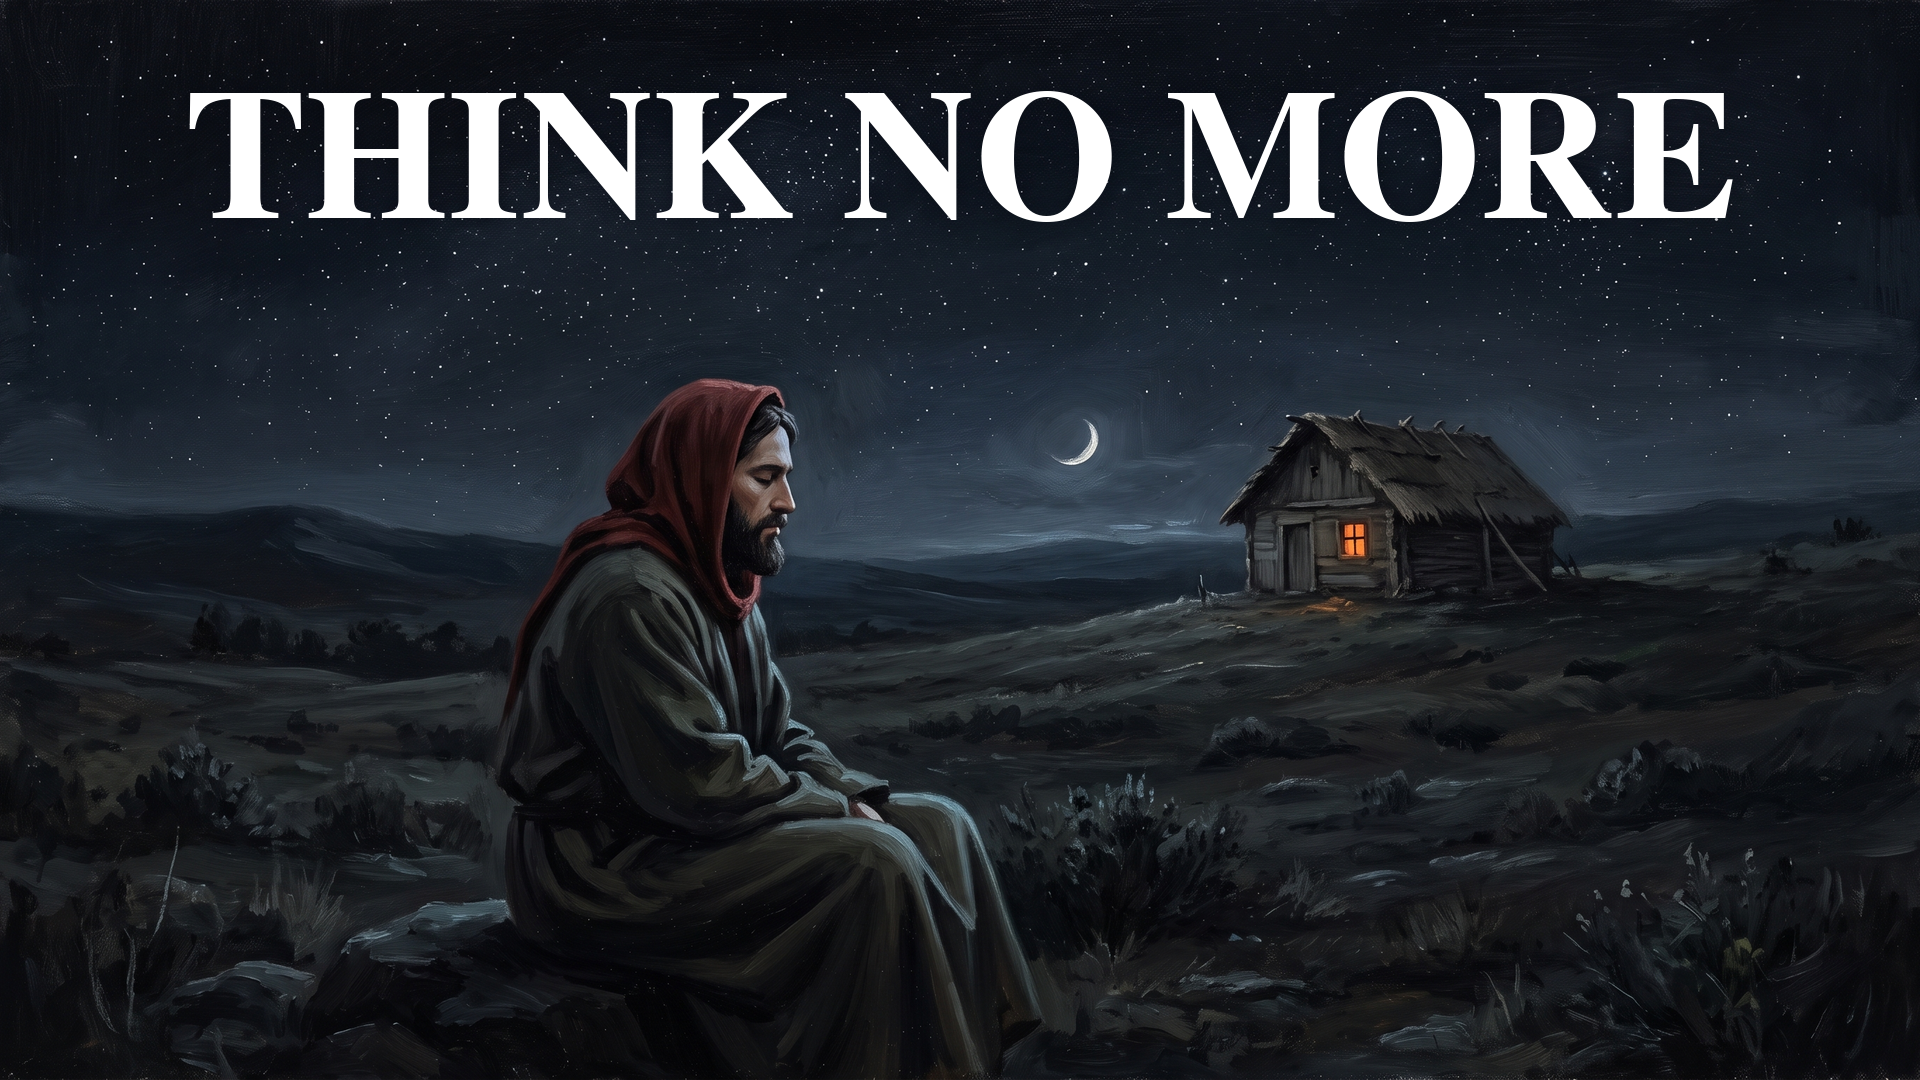
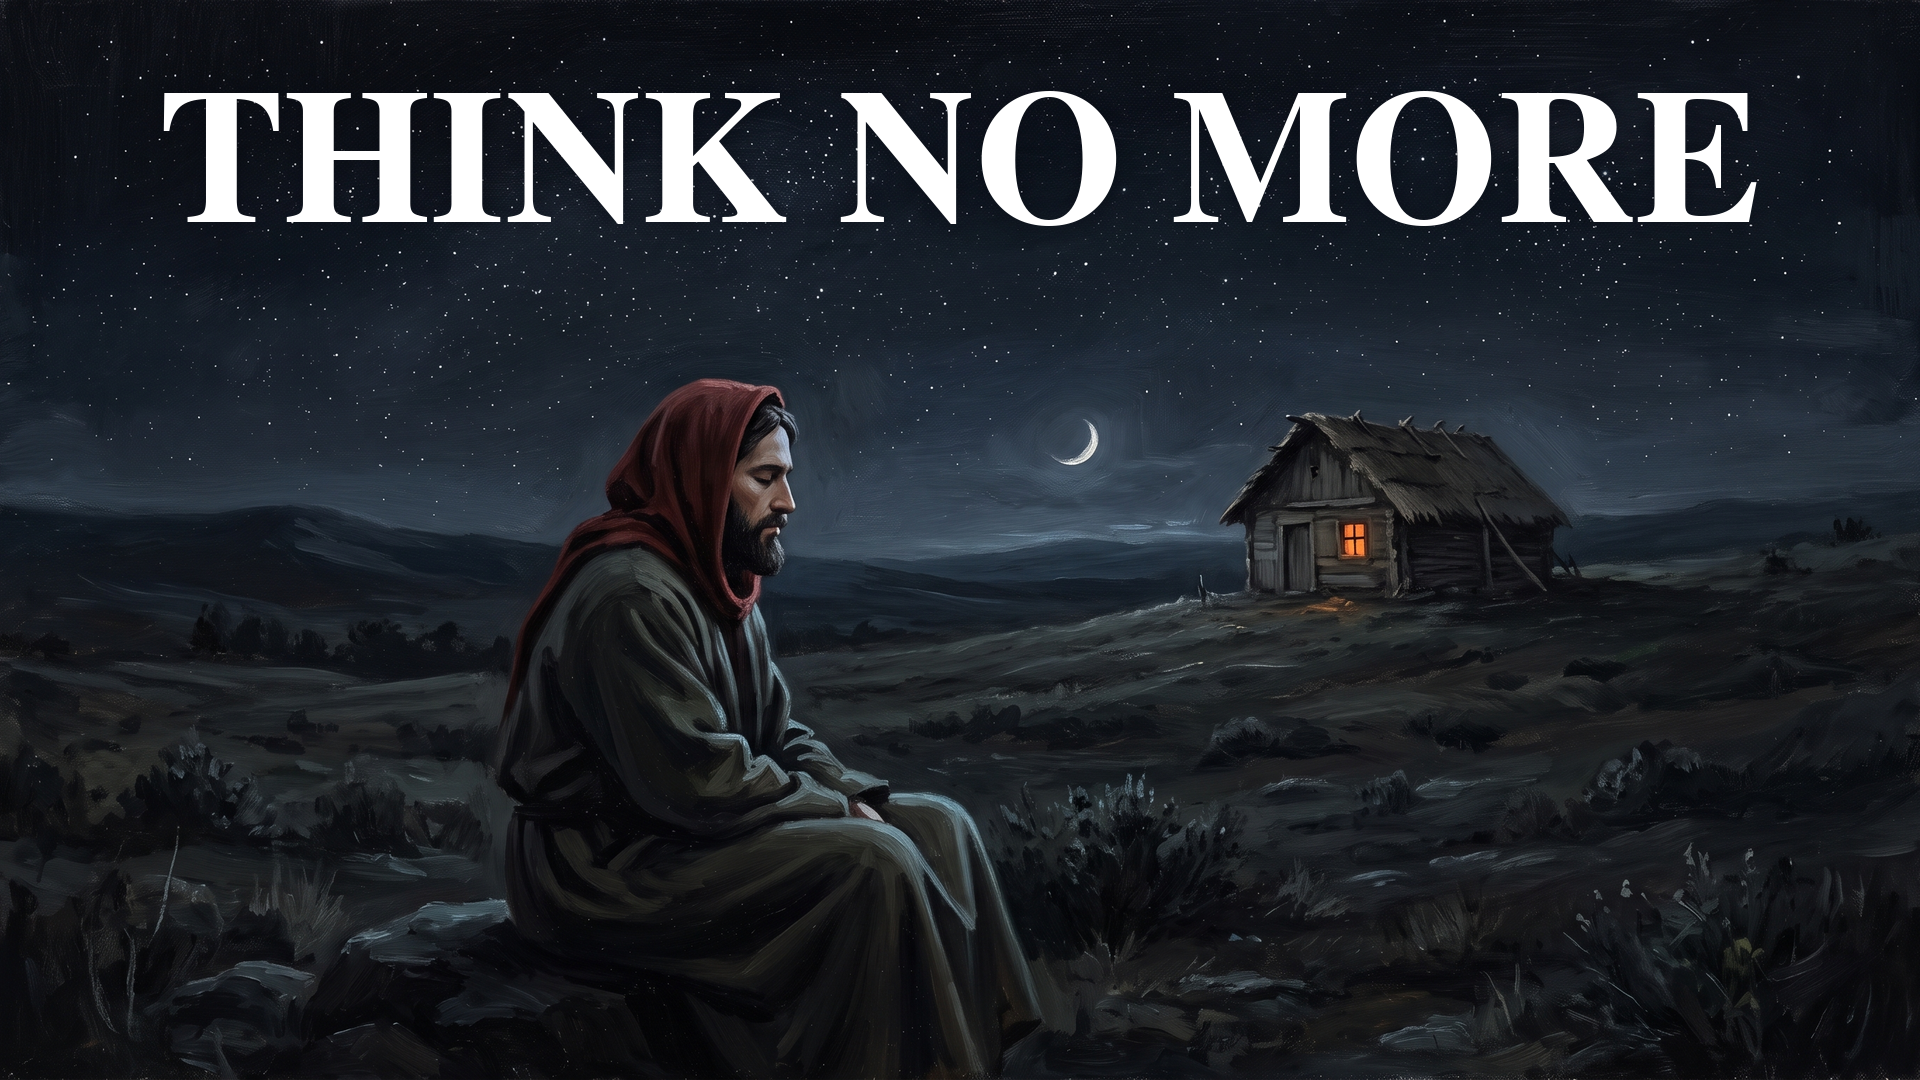
Thumbnail auf 129 px Versalhoehe, plan.json auf die echten Kapitelsummen
Thumbnail V4: 125 px waren ceil(1080 x 11,5 %) und damit exakt das Minimum —
gemessen 11,57 % gegen eine Grenze von 11,50 %, also 0,07 Punkte oder knapp
0,8 px. Jede Verschiebung am Motiv oder ein anderer Font haette Gate 1.5 ohne
Vorwarnung gekippt.

thumbnail.py trennt jetzt Zielgroesse und Grenze: das neue CAP_ZIEL_PCT
(11,9 %, der Median der B-Serie ueber n=13) bestimmt die Schriftgroesse,
CAP_MIN_PCT (11,5 %) bleibt der Wert, an dem geprueft wird. Gilt ab sofort
auch fuer V05-V08.

  vorher   125 px = 11,57 %   Breite 1548 px, Rand 186 px
  nachher  129 px = 11,94 %   Breite 1599 px, Rand 160 px

Kontrast unveraendert 18,5:1 im Mittel und 17,7:1 im p95. Neu gesetzt aus
motiv-video-04.png; nachgewiesen, dass der Hintergrund dieselbe Vorlage ist
(90,2 % pixelgleich, Abweichung nur im Textband) und kein zweiter Textsatz
entstanden ist. Die Kuerzung auf THINK NO MORE bleibt richtig: NO MORE
THINKING braeuchte bei 129 px rund 1956 px statt der verfuegbaren 1840.

plan.json: zeichen_tts stand fuer alle acht Videos auf woerter x 5,210, einer
Faustformel, und wies damit 0,05 bis 1,9 Prozent zu wenig aus. Jetzt steht
dort die Summe der Kapitelzeichen aus kapitel.json.

  V1 154.581 -> 156.762    V5 155.675 -> 155.755
  V2 157.655 -> 160.463    V6 159.911 -> 161.522
  V3 156.347 -> 157.142    V7 151.731 -> 153.932
  V4 162.094 -> 165.130    V8 155.440 -> 155.778

Dazu ein _hinweis-Schluessel, der festhaelt, dass dieser Wert nur die
[…]

diff --git a/produktion/pipeline/thumbnail.py b/produktion/pipeline/thumbnail.py
@@ -5,7 +5,8 @@ thumbnail.py - legt die Textzeile auf ein Serienmotiv und misst nach.
 Harte Werte aus formel/thumbnail-checkliste.md:
   - hoechstens 4 Woerter
   - Versalien, fett
-  - Versalhoehe >= 11,5 % der Bildhoehe (>= 125 px bei 1080p)
+  - Versalhoehe >= 11,5 % der Bildhoehe (>= 125 px bei 1080p);
+    gesetzt wird auf 11,9 % (129 px), damit Reserve bleibt
   - Kontrast Text zu direktem Hintergrund >= 10:1
   - Text im oberen Drittel, weiss, zentriert
   - Export als JPEG/PNG, >= 150 KB (Gewinner-Median 237 KB)
@@ -33,6 +34,12 @@ SCHRIFTEN = [
     "/usr/share/fonts/truetype/dejavu/DejaVuSerif-Bold.ttf",
 ]
 CAP_MIN_PCT = 11.5
+# Gesetzt wird NICHT auf das Minimum, sondern darueber. Bei 11,5 % ergibt
+# ceil(1080 * 0,115) = 125 px und damit 11,57 % — 0,07 Punkte oder knapp
+# 0,8 px Reserve. Jede Verschiebung am Motiv oder ein anderer Font kippt
+# die Pruefung dann ohne Vorwarnung. 11,9 % ist der Median der B-Serie und
+# ergibt 129 px. CAP_MIN_PCT bleibt die Grenze, an der geprueft wird.
+CAP_ZIEL_PCT = 11.9
 KONTRAST_MIN = 10.0
 MAX_WOERTER = 4
 
@@ -74,7 +81,7 @@ def bauen(bild, text, aus, oben_pct=8.5, rand_min=40):
         raise SystemExit(f"{woerter} Woerter — die Checkliste erlaubt hoechstens "
                          f"{MAX_WOERTER}.")
 
-    cap_ziel = int(np.ceil(H * CAP_MIN_PCT / 100))
+    cap_ziel = int(np.ceil(H * CAP_ZIEL_PCT / 100))
     d = ImageDraw.Draw(im)
     gewaehlt = None
     for p in SCHRIFTEN:

diff --git a/produktion/video-04/gate1-pruefung.md b/produktion/video-04/gate1-pruefung.md
@@ -15,7 +15,7 @@ den Werten des fertigen Laufs.
 | 1.2 | Titelähnlichkeit | < 50 % | **37,5 %** | ✓ |
 | 1.3 | Titelanker | einer der 13 belegten | `No More Thinking Tonight…` (166K) | ✓ |
 | 1.4 | Thumbnail: Wörter | ≤ 4 | 3 — `THINK NO MORE` | ✓ |
-| 1.5 | Thumbnail: Versalhöhe | ≥ 11,5 % | **11,57 %** (125 px) | ✓ |
+| 1.5 | Thumbnail: Versalhöhe | ≥ 11,5 % | **11,94 %** (129 px) | ✓ |
 | 1.6 | Thumbnail: Kontrast | ≥ 10 : 1 | 17,5–18,5 | ✓ |
 | 1.7 | Thumbnail: Serienmotiv | gleich wie letzte Uploads | Sichtprüfung offen | **von Hand** |
 | 1.8 | 160×90-Kontrolle | in einer Sekunde erfassbar | Sichtprüfung offen | **von Hand** |
@@ -27,9 +27,13 @@ den Werten des fertigen Laufs.
 **10 von 12 maschinell bestanden, 0 Verstöße.** 1.7 und 1.8 sind
 Sichtprüfungen und bleiben offen — sie gehören ans Handy, nicht in ein Skript.
 
-**1.5 hat keine Reserve.** 11,57 % gegen 11,50 % sind 0,07 Punkte, das sind
-knapp 0,8 px. Wer am Thumbnail noch etwas verschiebt, muss `thumbnail.py`
-erneut laufen lassen.
+**1.5 nachgebessert (2026-08-20).** Der erste Lauf lag mit 11,57 % gegen
+11,50 % nur 0,07 Punkte über der Grenze — knapp 0,8 px, weil `thumbnail.py`
+auf `ceil(1080 × 11,5 %)` = 125 px zielte, also exakt auf das Minimum. Das
+Skript trennt jetzt Zielgröße und Grenze: `CAP_ZIEL_PCT` = 11,9 % (Median der
+B-Serie) ergibt 129 px, `CAP_MIN_PCT` = 11,5 % bleibt die Prüfgrenze.
+Neu gemessen: **129 px = 11,94 %**, Breite 1599 px, Rand 160 px je Seite,
+Kontrast unverändert. Thumbnail neu gesetzt aus `motiv-video-04.png`.
 
 ## Aussprache-QA: zwei Beanstandungen, beide widerlegt
 

diff --git a/bibeltube-wissen.md b/bibeltube-wissen.md
@@ -1371,6 +1371,22 @@ schmale Sichel.
 >
 > Der **Titel bleibt unverändert**; gekürzt ist allein die Zeile im Bild.
 
+> **2026-08-20 — Versalhöhe von 125 px auf 129 px angehoben.**
+> 125 px waren `ceil(1080 × 11,5 %)`, also exakt das Minimum: gemessen
+> 11,57 % gegen eine Grenze von 11,50 %, das sind 0,07 Punkte oder knapp
+> 0,8 px. Jede Verschiebung am Motiv oder ein anderer Font hätte 1.5 ohne
+> Vorwarnung gekippt. `thumbnail.py` setzt jetzt auf **`CAP_ZIEL_PCT` =
+> 11,9 %** — der Median der B-Serie (9,9–12,1 %, n=13) — und trennt damit
+> die Zielgröße von der Grenze; `CAP_MIN_PCT` = 11,5 % bleibt der Wert, an
+> dem geprüft wird.
+>
+> Gemessen: **129 px = 11,94 %**, Breite 1599 px, Rand 160 px je Seite,
+> Kontrast unverändert 18,5:1 (Mittel) und 17,7:1 (p95). Die Kürzung von
+> oben bleibt richtig: `NO MORE THINKING` bräuchte bei 129 px rund 1956 px
+> und wäre noch deutlicher zu breit als bei 125 px.
+>
+> Gilt ab sofort auch für die Thumbnails von V05–V08.
+
 > **2026-08-06:** ersetzt „weiter Bildausschnitt, Hügelsilhouette hinter dem
 > Feuer". Hütte und erleuchtetes Fenster stehen beide in Formel §5 im belegten
 > Motivset, das Fenster ausdrücklich als zulässige warme Lichtquelle neben

diff --git a/produktion/videos-01-08.md b/produktion/videos-01-08.md
@@ -511,6 +511,22 @@ schmale Sichel.
 >
 > Der **Titel bleibt unverändert**; gekürzt ist allein die Zeile im Bild.
 
+> **2026-08-20 — Versalhöhe von 125 px auf 129 px angehoben.**
+> 125 px waren `ceil(1080 × 11,5 %)`, also exakt das Minimum: gemessen
+> 11,57 % gegen eine Grenze von 11,50 %, das sind 0,07 Punkte oder knapp
+> 0,8 px. Jede Verschiebung am Motiv oder ein anderer Font hätte 1.5 ohne
+> Vorwarnung gekippt. `thumbnail.py` setzt jetzt auf **`CAP_ZIEL_PCT` =
+> 11,9 %** — der Median der B-Serie (9,9–12,1 %, n=13) — und trennt damit
+> die Zielgröße von der Grenze; `CAP_MIN_PCT` = 11,5 % bleibt der Wert, an
+> dem geprüft wird.
+>
+> Gemessen: **129 px = 11,94 %**, Breite 1599 px, Rand 160 px je Seite,
+> Kontrast unverändert 18,5:1 (Mittel) und 17,7:1 (p95). Die Kürzung von
+> oben bleibt richtig: `NO MORE THINKING` bräuchte bei 129 px rund 1956 px
+> und wäre noch deutlicher zu breit als bei 125 px.
+>
+> Gilt ab sofort auch für die Thumbnails von V05–V08.
+
 > **2026-08-06:** ersetzt „weiter Bildausschnitt, Hügelsilhouette hinter dem
 > Feuer". Hütte und erleuchtetes Fenster stehen beide in Formel §5 im belegten
 > Motivset, das Fenster ausdrücklich als zulässige warme Lichtquelle neben
